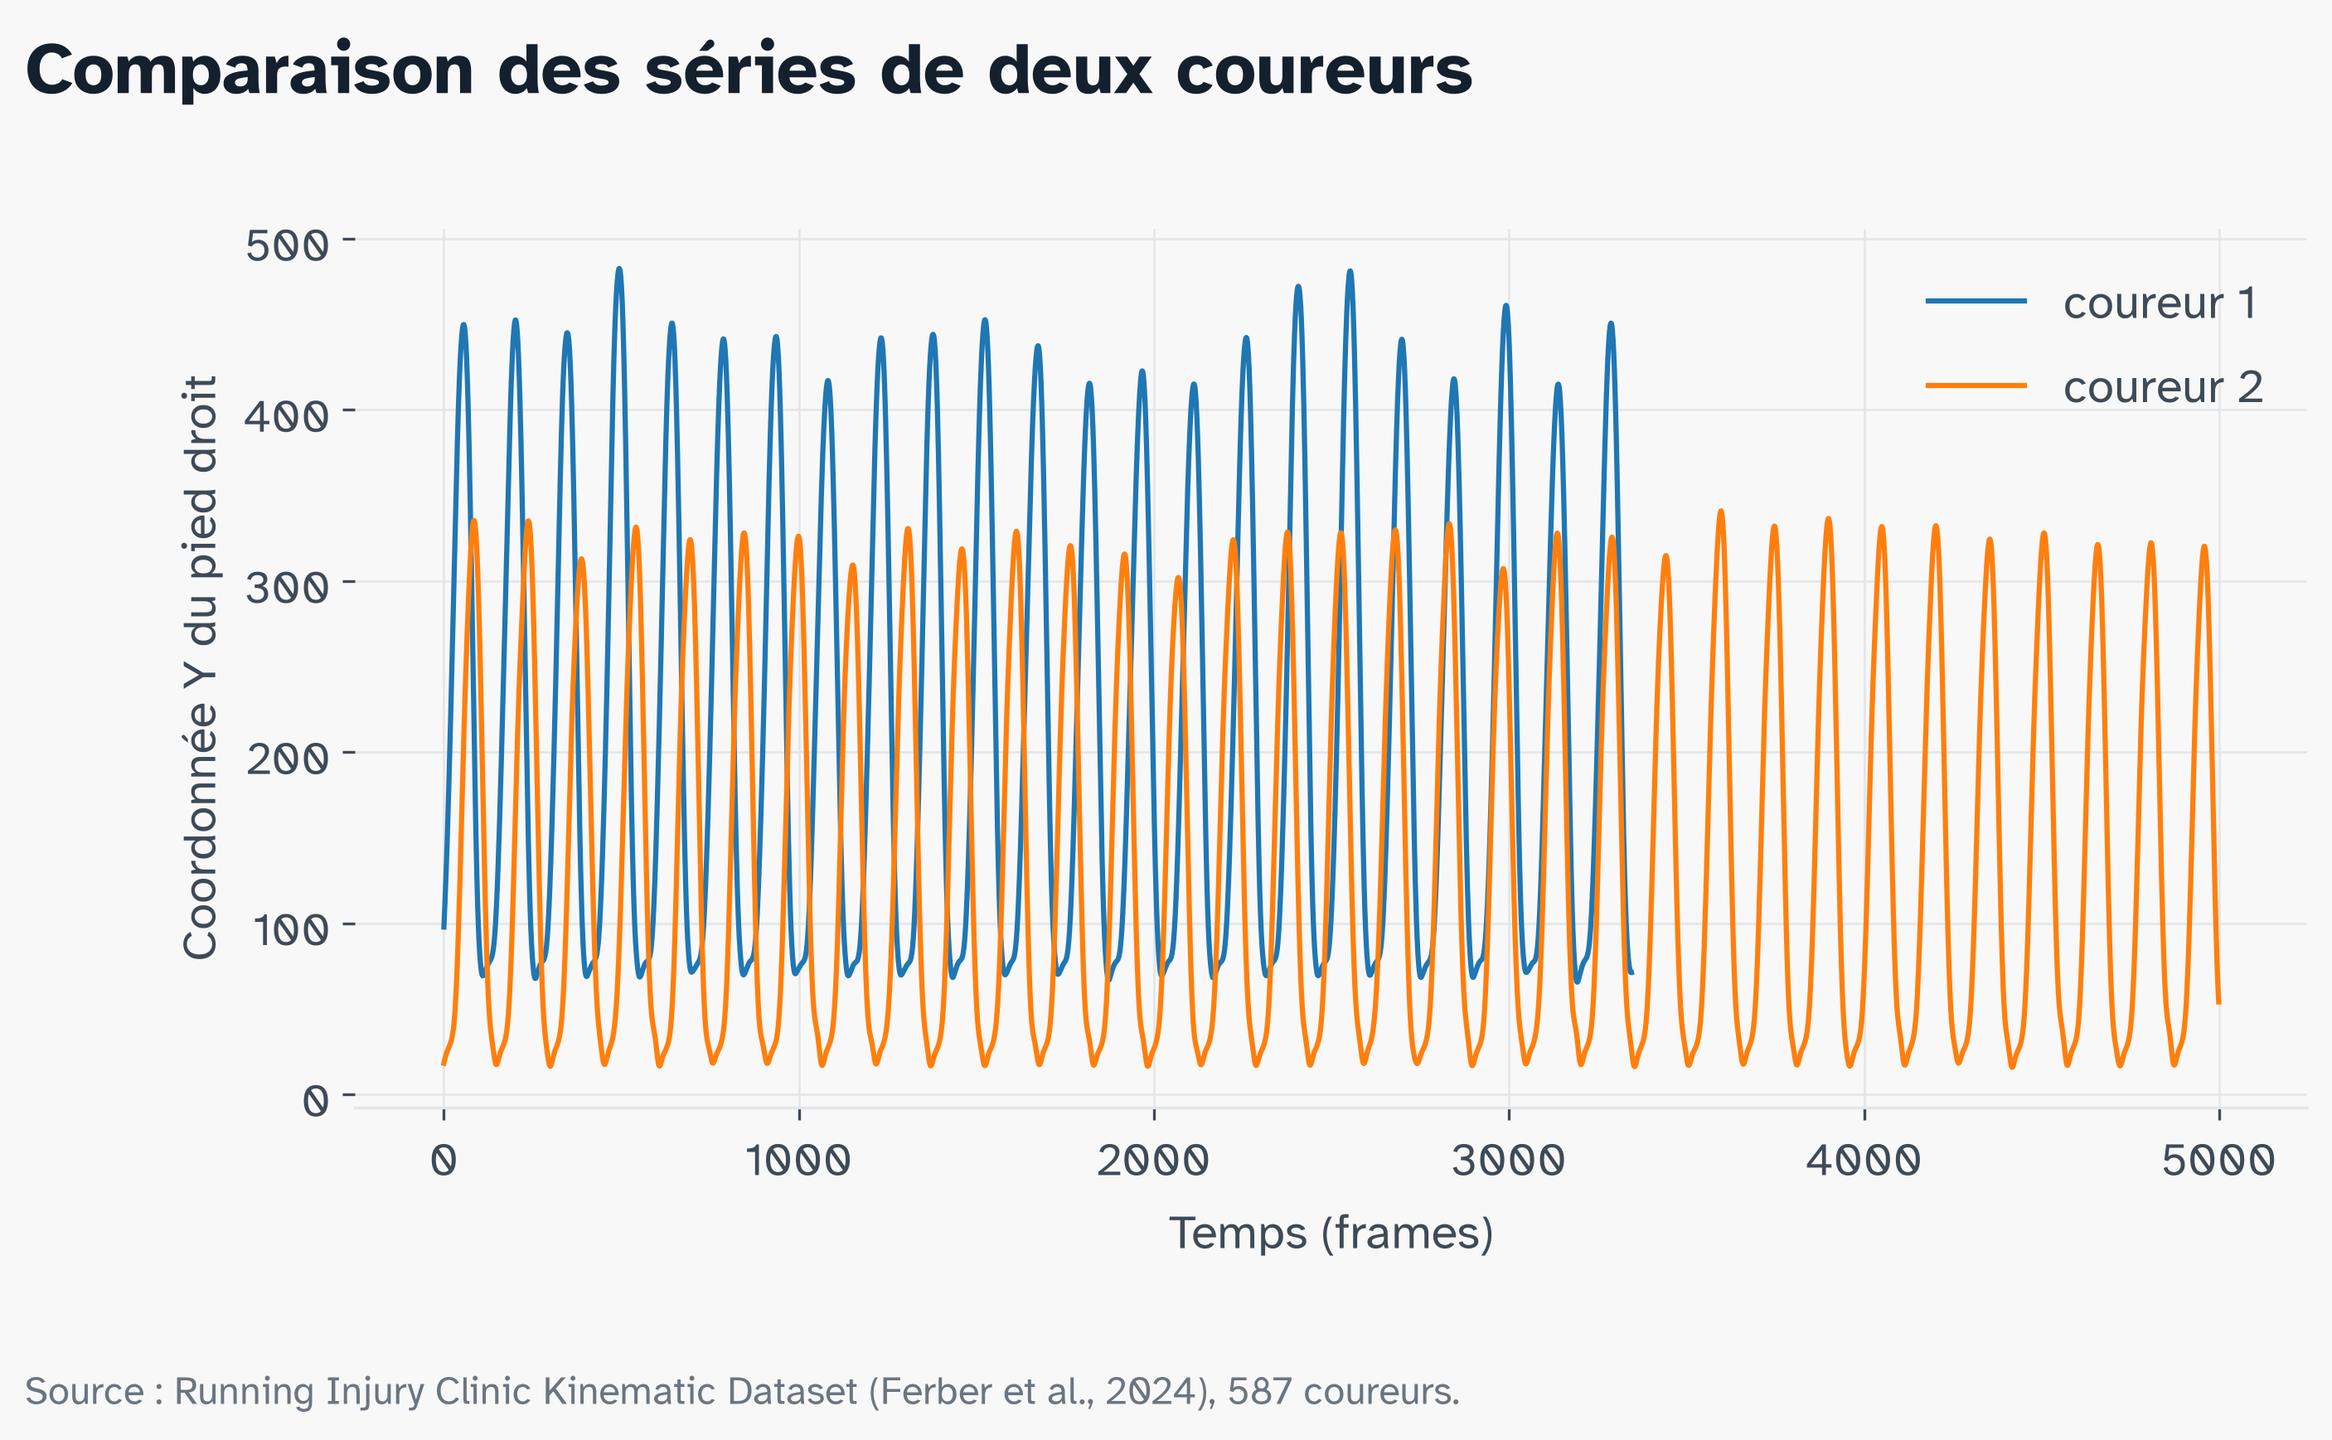
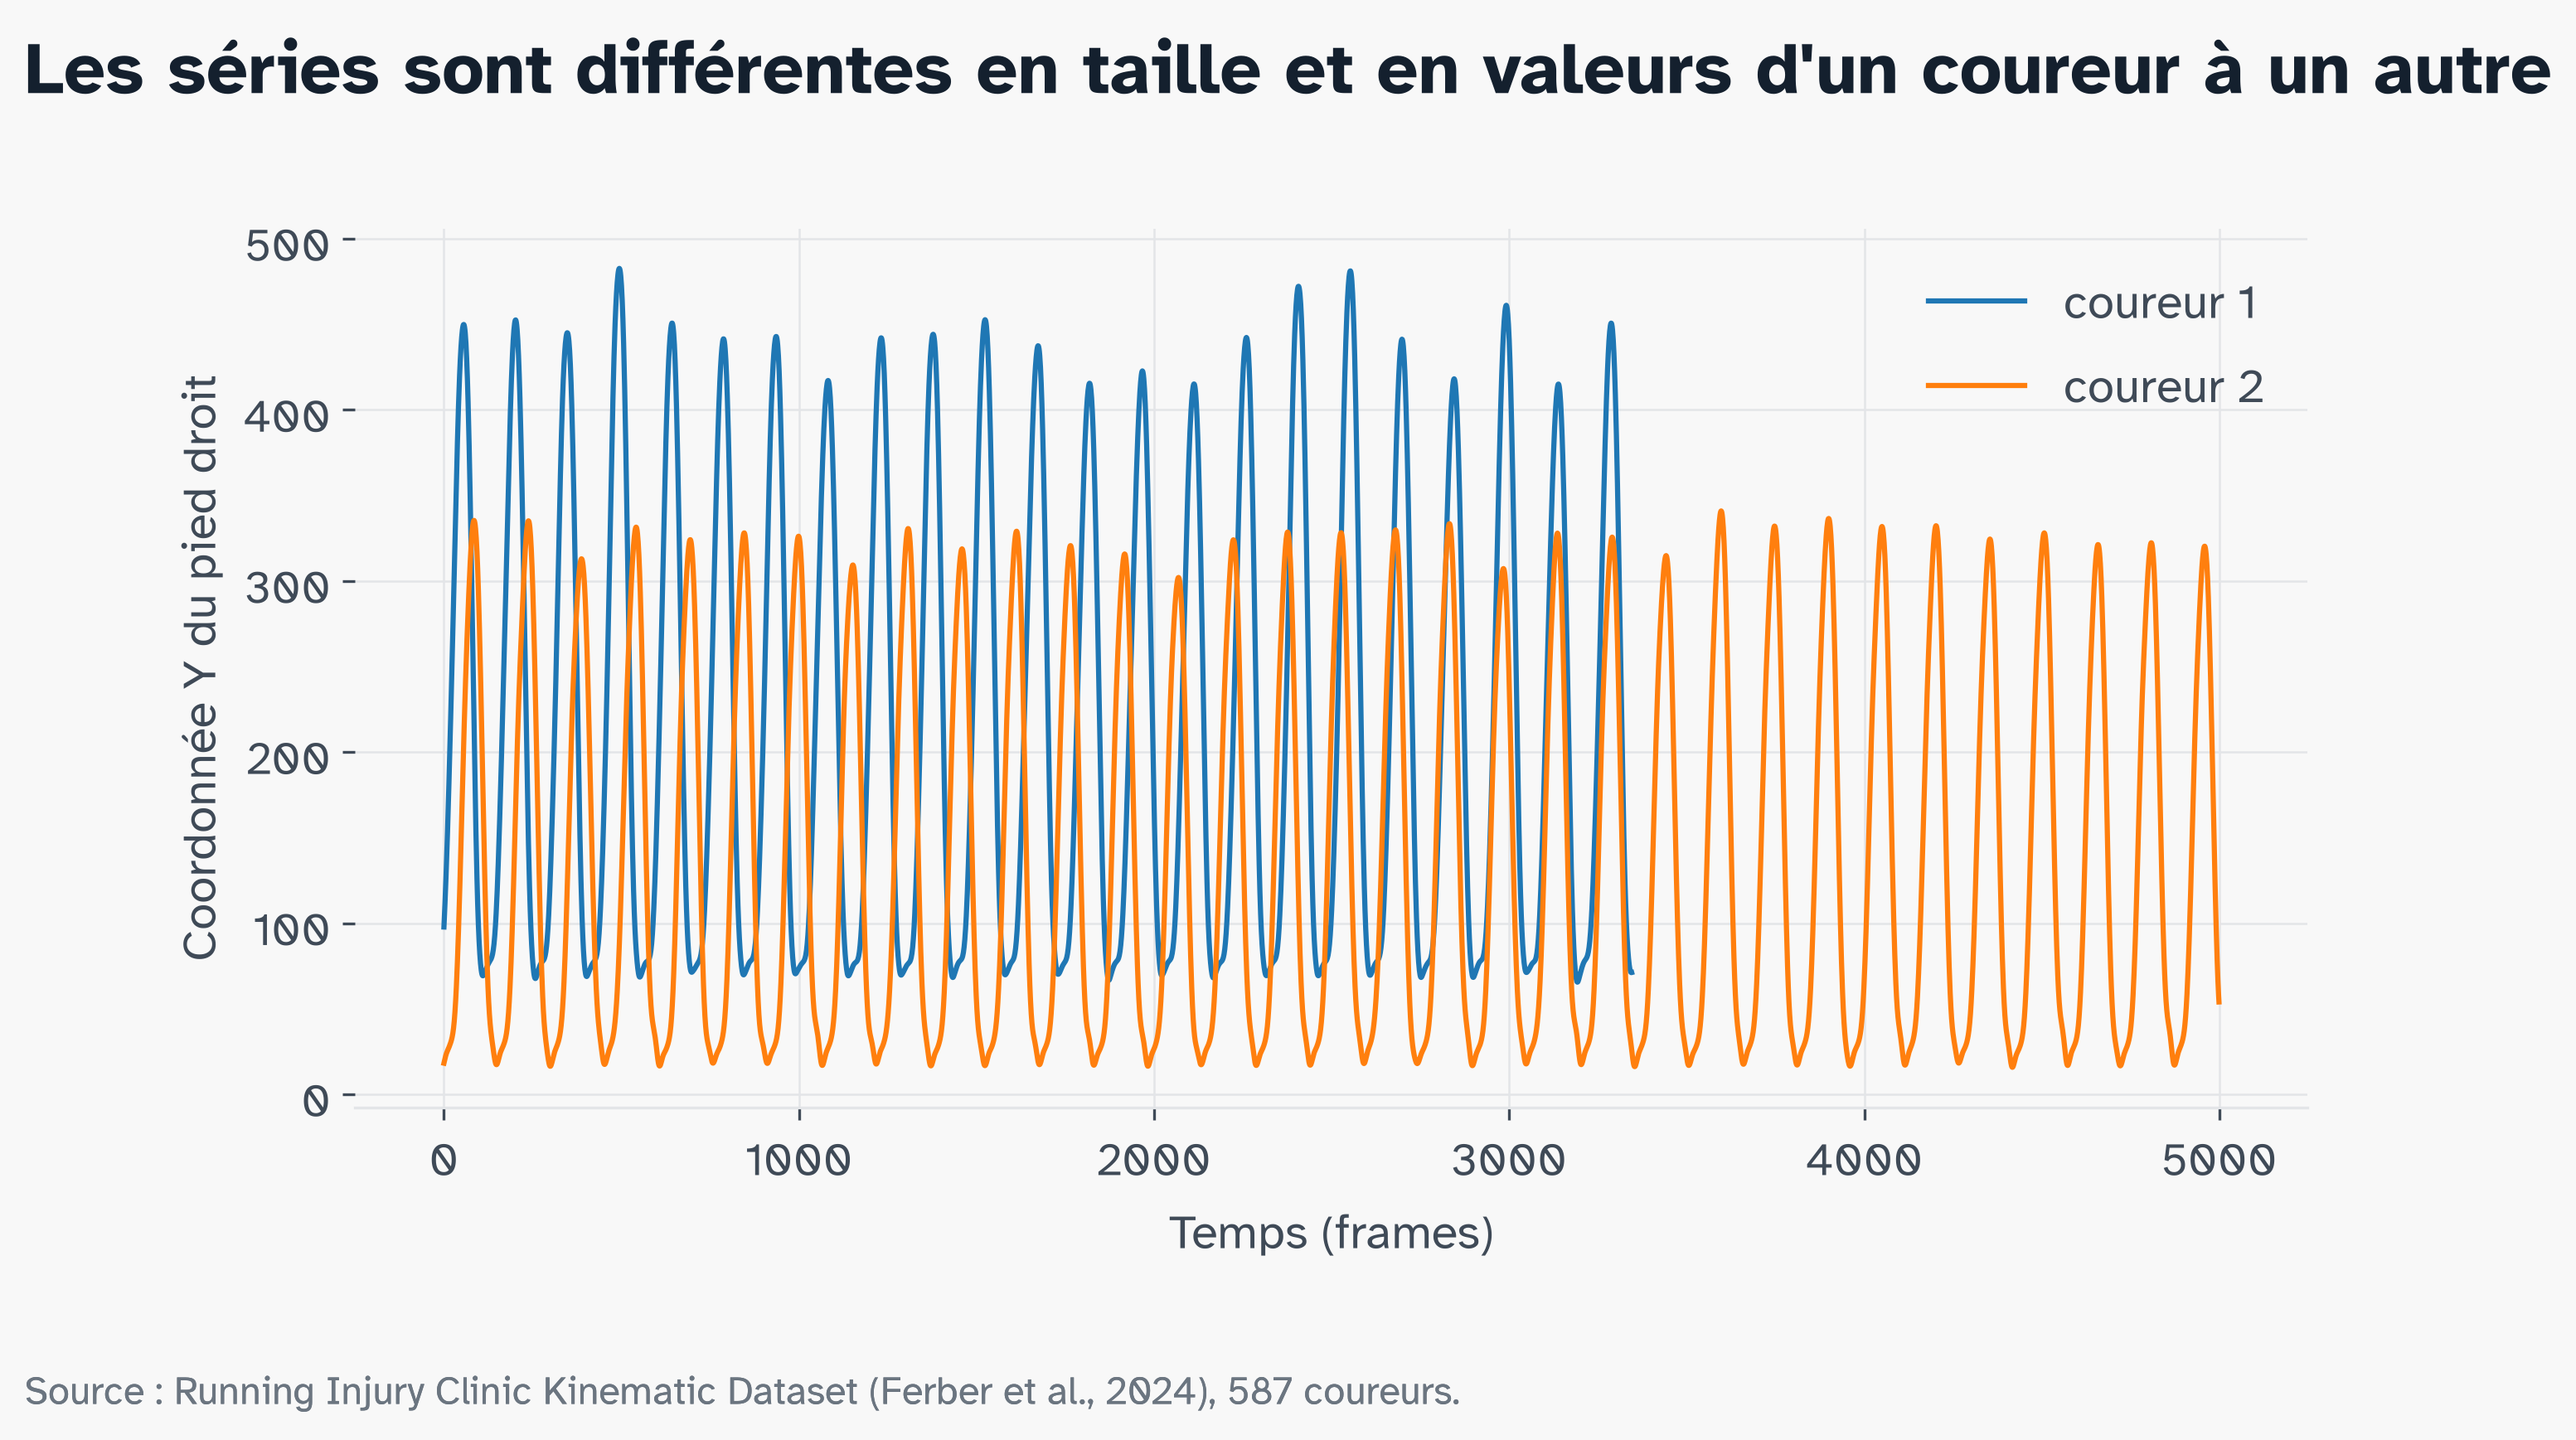
changement diapo partie machine learning

diff --git a/presentation/progression.html b/presentation/progression.html
@@ -18,7 +18,7 @@
 <script>
   (function () {
     // Titre de partie -> étape du repère
-    var etapes = { "Le problème": 0, "Les données": 1, "Méthodologie": 2, "Illustration": 2 };
+    var etapes = { "Le problème": 0, "Les données": 1, "Méthodologie": 2, "Deep learning": 2 };
     function majProgression() {
       var barre = document.getElementById("progression");
       var slide = Reveal.getCurrentSlide();

diff --git a/presentation/theme.scss b/presentation/theme.scss
@@ -165,3 +165,21 @@ $code-color: $encre-titre;
     box-shadow: 0 0 0 4px $jaune-clair;
   }
 }
+
+// Les deux graphiques des positions brutes gardent leurs proportions.
+.reveal section.positions-brutes {
+  .columns {
+    align-items: center;
+  }
+
+  img {
+    display: block;
+    object-fit: contain;
+    margin: 0 auto;
+    max-height: 520px;
+  }
+
+  .columns p {
+    margin: 0;
+  }
+}

diff --git a/scripts/loc marqueurs.py b/scripts/loc marqueurs.py
@@ -1,60 +1,63 @@
-# %%
 import json
+from pathlib import Path
+
 import matplotlib.pyplot as plt
 import pandas as pd
-from adjustText import adjust_text
-from pathlib import Path
-from charte_graphique import appliquer_charte, COULEURS_GROUPES, titrer, sauver_figure
 
-folder_path = "/home/charles/Téléchargements/données/ric_data/reformat_data/" # à modifier selon votre emplacement des données
+from charte_graphique import appliquer_charte, sauver_figure, titrer
+
+folder_path = Path("/home/charles/Téléchargements/données/ric_data/reformat_data/")
 BASE_DIR = Path(__file__).resolve().parent
-select = pd.read_csv(BASE_DIR.parent/"data/coureurs.csv")
-appliquer_charte()
+select = pd.read_csv(BASE_DIR.parent / "data/coureurs.csv")
+
+ZONES = {
+    "Bassin": ("#14202E", "o"),
+    "Cuisse": ("#7A1E3A", "s"),
+    "Jambe": ("#5E6A77", "^"),
+    "Pied": ("#C98A1A", "D"),
+}
 
 
-# %%
-# visualisation de la position des marqueurs sur les sujets
 def localisation_marqueurs(idx):
-    coureur = select["sub_id"][idx]
-    filename = select["filename"][idx]
-        
-    with open(folder_path + f"{coureur}/{filename}", "r", encoding="utf-8") as f:
-        data = json.load(f)
+    coureur = select.iloc[idx]
+    chemin = folder_path / str(coureur["sub_id"]) / coureur["filename"]
+    with chemin.open(encoding="utf-8") as fichier:
+        positions = json.load(fichier)["neutral"]
 
-    x = []
-    y = []
-    z = []
-    labels = []
+    segments = pd.DataFrame.from_dict(
+        positions, orient="index", columns=["X", "Y", "Z"]
+    )
+    zones = segments.index.to_series().str.extract(
+        r"(pelvis|thigh|shank|foot|toe)", expand=False
+    ).map({
+        "pelvis": "Bassin", "thigh": "Cuisse", "shank": "Jambe",
+        "foot": "Pied", "toe": "Pied",
+    })
 
-    for marqueur, values in data["neutral"].items():
+    fig, axes = plt.subplots(1, 2, figsize=(9.6, 5.4), sharey=True)
+    fig.subplots_adjust(left=0.10, right=0.96, top=0.83, bottom=0.23, wspace=0.14)
+    for ax, coordonnee, titre in zip(axes, ("X", "Z"), ("Vue de face", "Vue de profil")):
+        for zone, (couleur, symbole) in ZONES.items():
+            points = segments.loc[zones == zone]
+            ax.scatter(
+                points[coordonnee], points["Y"], label=zone, c=couleur,
+                marker=symbole, s=40, edgecolors="white", linewidths=0.45, zorder=3,
+            )
+        ax.set_title(titre, loc="center")
+        ax.set_xlabel(f"{coordonnee} (mm)")
+        ax.set_aspect("equal", adjustable="datalim")
+        ax.grid(axis="x", visible=False)
 
-        x.append(values[0])
-        y.append(values[1])
-        z.append(values[2])
-        labels.append(marqueur)
-
-
-    fig, (ax1, ax2) = plt.subplots(1, 2, figsize=(7, 7))
-
-    # Vue de face : X / Y
-    ax1.plot(x, y, ".")
-    texts = [ax1.text(x[i], y[i], label, fontsize=7) for i, label in enumerate(labels)]
-    adjust_text(texts,ax=ax1,arrowprops=dict(arrowstyle="->", color="red"))
-    ax1.set_title("Vue X / Y")
-    ax1.set_aspect("equal")
-
-    # Vue de côté : Z / Y
-    ax2.plot(z, y, ".")
-    texts = [ax2.text(z[i], y[i], label, fontsize=7) for i, label in enumerate(labels)]
-    adjust_text(texts,ax=ax2,arrowprops=dict(arrowstyle="->", color="red"))
-    ax2.set_title("Vue Z / Y")
-    ax2.set_aspect("equal")
-
-    titrer(fig, "Position des marqueurs sur l'individu au repos (en mm)", "")
+    axes[0].set_ylabel("Hauteur Y (mm)")
+    handles, labels = axes[0].get_legend_handles_labels()
+    fig.legend(handles, labels, loc="lower center", ncols=4, bbox_to_anchor=(0.5, 0.035))
+    titrer(fig, "Position des marqueurs au repos",
+           legende="Source : Running Injury Clinic Kinematic Dataset (Ferber et al., 2024).")
     sauver_figure(fig, "loc_marqueurs")
+    plt.close(fig)
+    return positions
 
-    return data["neutral"]
 
-localisation_marqueurs(10) #localisation des marqueurs sur le 10e coureur
-
-# %%
+if __name__ == "__main__":
+    appliquer_charte(taille_base=15)
+    localisation_marqueurs(10)

diff --git a/scripts/process.py b/scripts/process.py
@@ -249,6 +249,25 @@ ax.set_xlabel("Temps (frames)")
 titrer(fig, "Comparaison des séries de deux coureurs")
 ax.legend()
 fig.tight_layout()
+titrer(fig, "Les séries sont différentes en taille et en valeurs d'un coureur à un autre")
 sauver_figure(fig, "comparaison_series")
 
+# %%
+
+data_table = load_coureur(10)
+x = list(range(data_table.shape[1]))
+
+fig, (ax1, ax2, ax3) = plt.subplots(3,1)
+fig.suptitle(canaux[8])
+ax1.plot(x, data_table[8, :, 0])
+ax1.set_title("coord X (droite/gauche)")
+ax2.plot(x, data_table[8, :, 1])
+ax2.set_title("coord Y (haut/bas)")
+ax3.plot(x, data_table[8, :, 2])
+ax3.set_title("coord Z (avant/arrière)")
+ax3.set_xlabel("Temps (frames)")
+fig.tight_layout()
+
+titrer(fig, "3 séries de coordonnées par canal de marqueur", "(ici la cuisse droite)\n")
+sauver_figure(fig, "representation_series_brut")
 # %%
